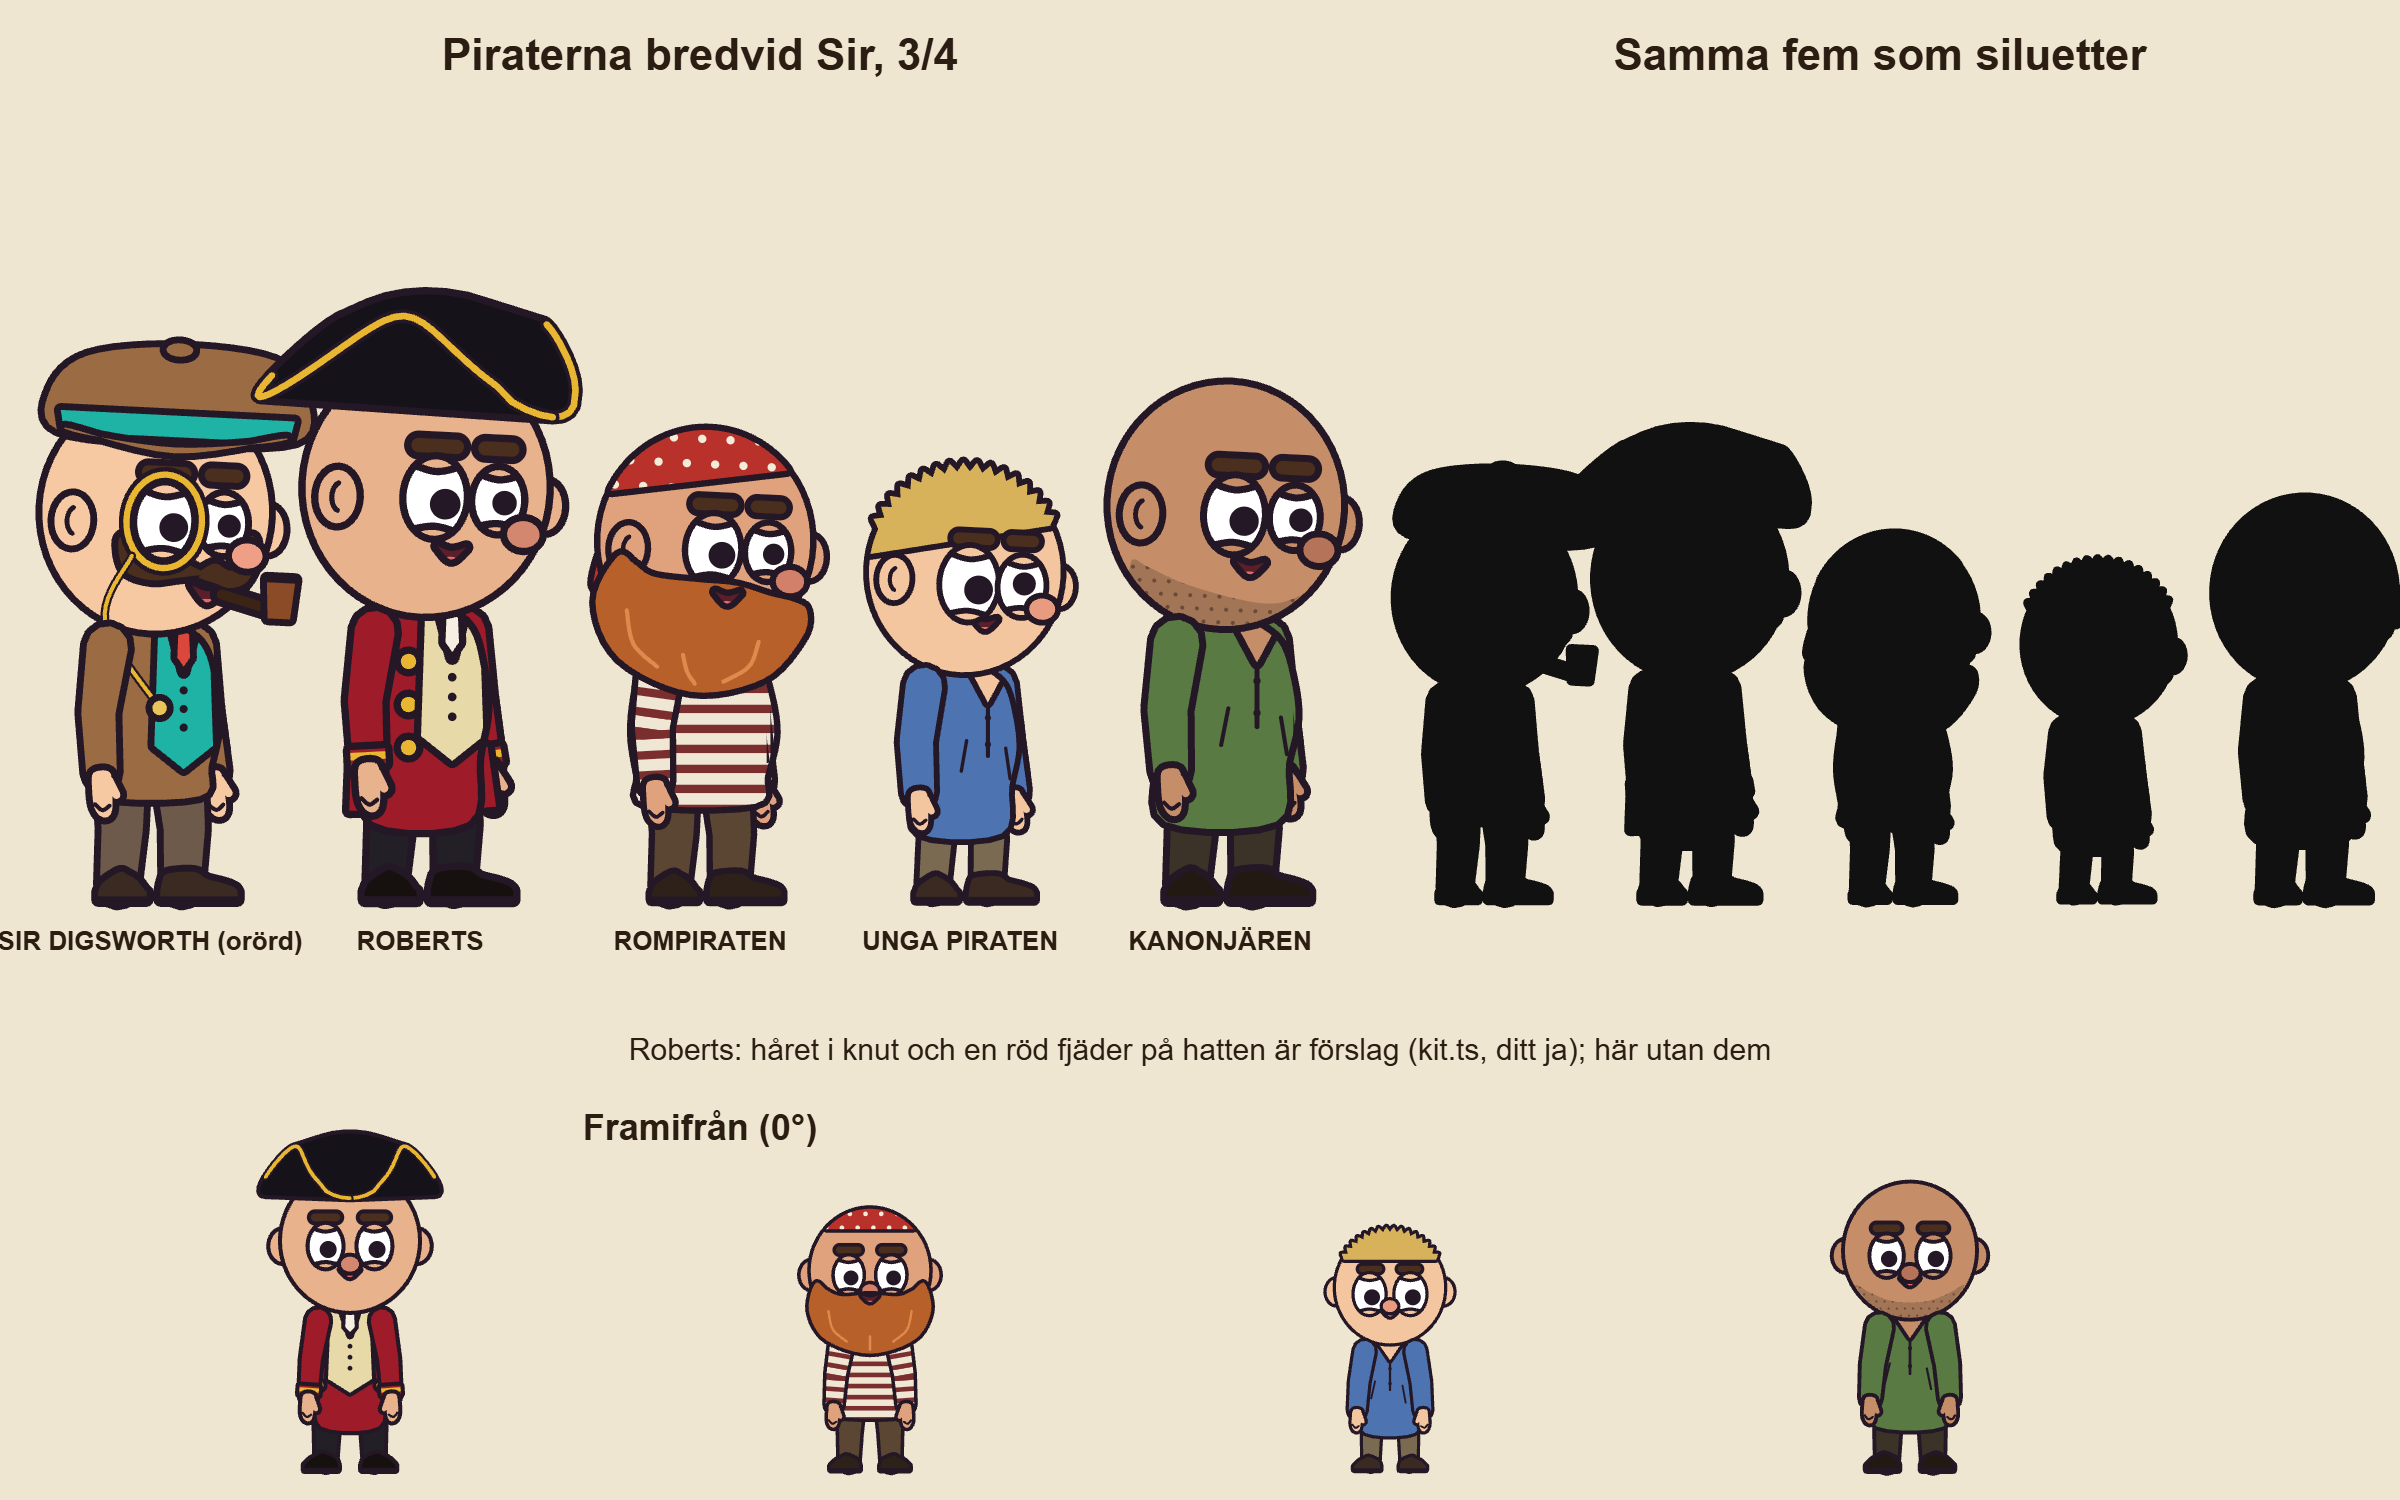
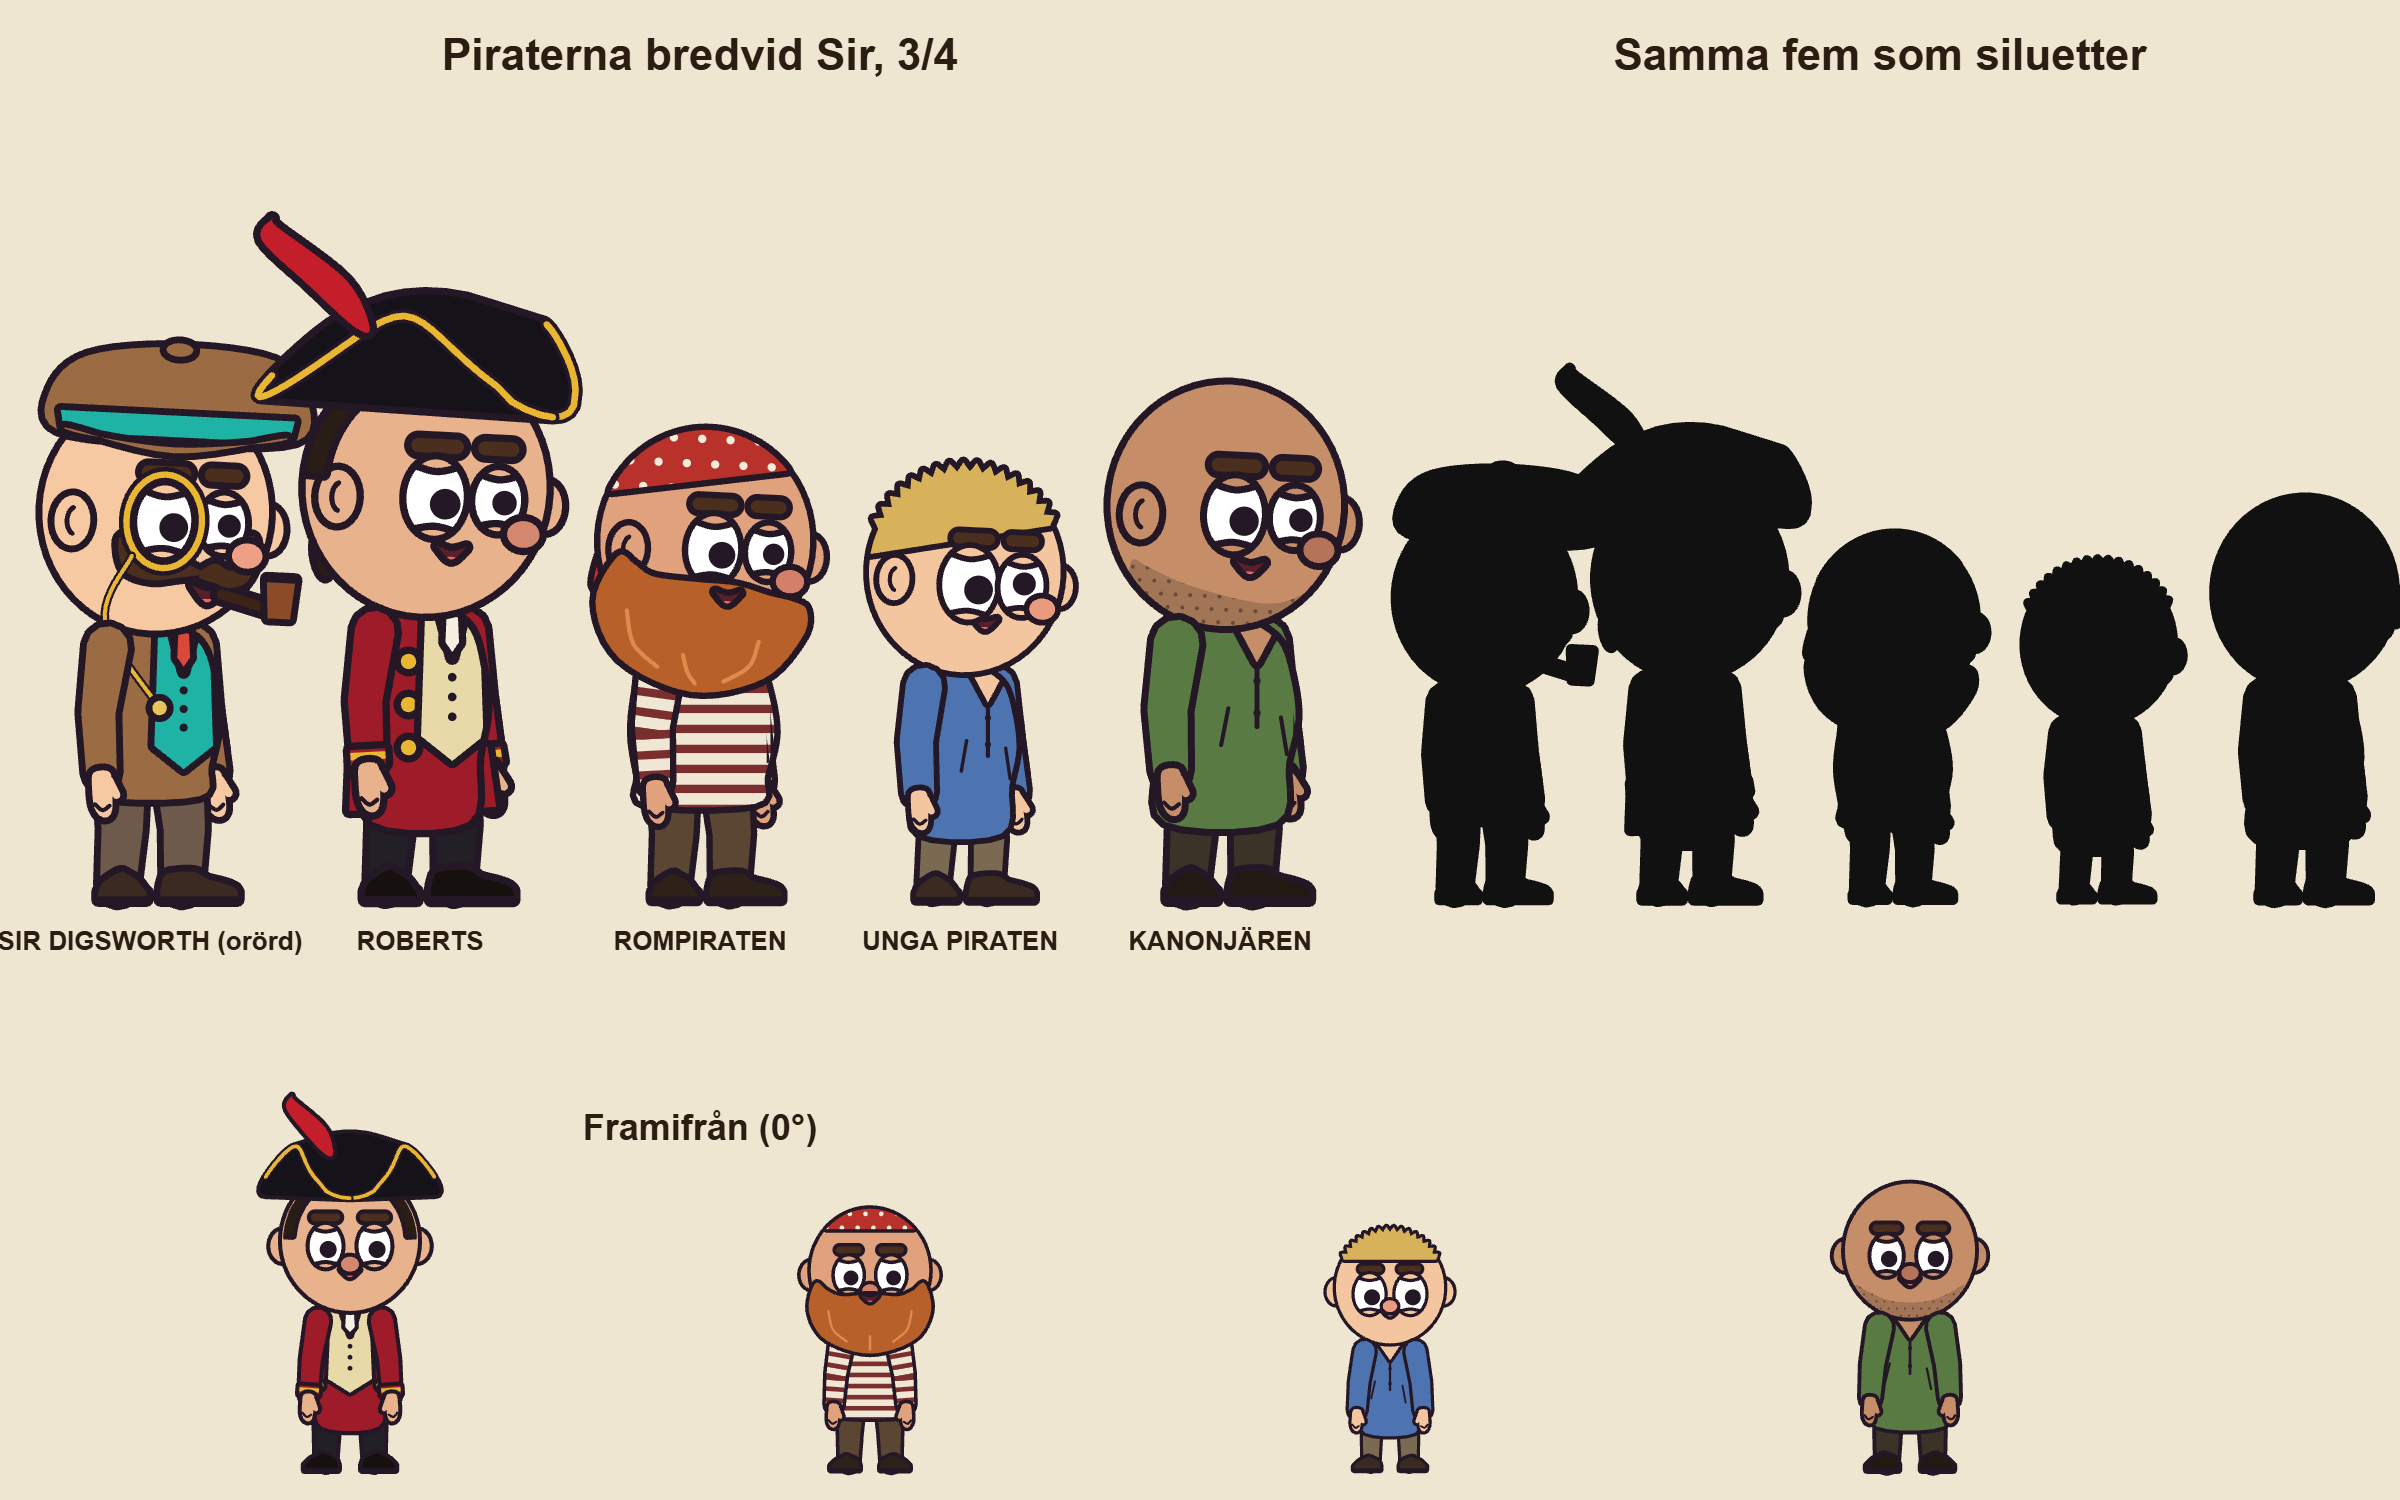
Roberts: hair tied back (kit hair queue) and the red feather in his tricorn (Johnson 1724), added to kit.ts with the reviewer's yes; the turn sheet 0-60 degrees both ways, full size and 360 px; the frozen diff empty

diff --git a/engine/src/craft/wardrobe/kit.ts b/engine/src/craft/wardrobe/kit.ts
@@ -12,7 +12,7 @@ import { Design, FigOpts, Face, Who, frame, torsoPts, J, limb, handAt, shoePts, 
 export type Kit = {
   name: string;
   /** what is on the head */ hat: "tricorn" | "scarf" | "none";
-  /** the hair under or instead of it */ hair: "messy" | "none";
+  /** the hair under or instead of it (queue: long hair tied back at the nape, under a hat; the reviewer's yes for Roberts, 28 Nov) */ hair: "messy" | "none" | "queue";
   /** the beard */ beard: "full" | "stubble" | "none";
   /** a child's face: the eyes this much larger and a little lower */ eyes?: number;
   /** the body: the torso's rows scaled across (w) and in depth (d), the arms' and legs' widths */ body: { w: number; d: number; arm: number[]; leg: number[]; hem?: number };
@@ -274,13 +274,26 @@ const BEARD_STRANDS: Record<string, [P2, P2, P2][]> = { q: [[[-90, -40], [-80, 0
 
 // ---------------- the kit's head parts (in the head's own frame, facing +x; fwd as hatOutline) ----------------
 /** behind the head: the scarf's knot and tails */
-const kitBack = (k: Ink, fwd: number) => { const kit = KIT.k; if (!kit) return; if (kit.hat === "scarf") for (const p of scarfKnot(fwd)) fl(k, p, kit.col.scarf); };
+const kitBack = (k: Ink, fwd: number) => { const kit = KIT.k; if (!kit) return; if (kit.hat === "scarf") for (const p of scarfKnot(fwd)) fl(k, p, kit.col.scarf);
+  if (kit.hair === "queue") for (const p of queueTail(fwd)) fl(k, p, kit.col.hair); };
+/** long hair tied back (Roberts, the reviewer's yes 28 Nov): its tail hangs at the nape behind the head, tied with a dark ribbon; seen from the
+ *  side and three-quarter only (from the front the head hides it) */
+const queueTail = (fwd: number): P2[][] => { if (fwd < 0.3) return []; const bx = -118 * fwd;
+  return [spline([[bx + 6, -150], [bx - 20, -118], [bx - 30, -60], [bx - 18, -30], [bx - 6, -62], [bx + 2, -112]]), ellPts(bx - 6, -140, 14, 12)]; };
+/** the hair seen under the hat's brim at the head's back side and over the ear's top (a crescent on the head's outline, inside it) */
+const queueHair = (fwd: number): P2[] => { const out: P2[] = [];
+  // (from the brim's lowest (-206) down to the ear's top (-150) at the back; from the front a thin band each side)
+  const back = fwd < 0.3 ? null : -1;
+  for (let i = 0; i <= 40; i++) { const a = Math.PI * (0.5 + i / 40), x = 126 * Math.cos(a), y = -128 + 132 * Math.sin(a); if (y >= -214 && y <= -128 && (back === null || x < -40 * fwd)) out.push([x, y]); }
+  for (let i = 40; i >= 0; i--) { const a = Math.PI * (0.5 + i / 40), x = 108 * Math.cos(a), y = -128 + 118 * Math.sin(a); if (y >= -214 && y <= -128 && (back === null || x < -40 * fwd)) out.push([x, y]); }
+  return out; };
 /** on the face, before the brows, the mouth and the eyes (so the mouth is always drawn over a beard): stubble, a beard, the hair */
 const kitFace = (k: Ink, view: "front" | "q" | "side", fwd: number) => { const kit = KIT.k; if (!kit) return;
   const head = ellPts(0, -128, 126, 132, 0, 0, 360, 60);
   if (kit.beard === "stubble") k.clip(head, () => { const st = stubblePts(view); k.shape(st, kit.col.stubble, 0); k.clip(st, () => { for (let x = -130; x < 150; x += 16) for (let y = -70; y < 20; y += 14) k.dot(x + ((y / 14) % 2) * 8, y, 2.2, "rgba(60,40,32,0.55)"); }); });
   // (the full beard is not drawn here: beardOverlay draws it after the arms, so it lies over the arms' upper part, and the mouth over it)
   if (kit.hat === "none" && kit.hair === "messy") fl(k, messyHair(fwd), kit.col.hair);
+  if (kit.hair === "queue") { const q = queueHair(fwd); if (q.length > 2) k.clip(head, () => fl(k, q, kit.col.hair)); if (fwd < 0.3) k.clip(head, () => { const m: P2[] = queueHair(fwd).map(([x, y]) => [-x, y]); if (m.length > 2) fl(k, m, kit.col.hair); }); }
 };
 /** sweat (the captain's rage, the list): two drops at the temple on the head's back side, under the hat's brim, clear of the eyes, the brows and
  *  the beard (the reviewer's rules: never into an eye nor over the beard), inside the head's outline; they grow with `sweat` (0-1) */
@@ -294,8 +307,15 @@ const kitHat = (k: Ink, fwd: number) => { const kit = KIT.k; if (!kit) return; k
     // (the gold trim along the brim's edge on the side toward us)
     const front = t.loop.map(([x, y, z]) => (z > -20 ? [x, y] : null)); let run: P2[] = [];
     const flush = () => { if (run.length > 2) band(k, run, 7, GOLD, k.ol * 0.4); run = []; };
-    for (const q of [...front, ...front.slice(0, 1)]) { if (q) run.push(q as P2); else flush(); } flush(); }
+    for (const q of [...front, ...front.slice(0, 1)]) { if (q) run.push(q as P2); else flush(); } flush();
+    if (kit.col.feather) for (const p of hatFeather(fwd)) fl(k, p, kit.col.feather); }
 };
+/** a red feather in the tricorn (Roberts: Johnson 1724, "a red Feather in his Hat"; the reviewer's yes 28 Nov): from the crown's back half, up and
+ *  back over it, never over the face (all of it above the brim's top, -270, and behind the head's middle as it turns) */
+const hatFeather = (fwd: number): P2[][] => { const bx = -40 - 50 * fwd, lean = -1 - 0.6 * fwd;
+  const tip: P2 = [bx + 70 * lean, -400], base: P2 = [bx, -292];
+  const leaf = spline([[base[0] + 8, base[1]], [base[0] + 24 + 30 * lean, -340], [tip[0] + 6, tip[1] + 8], [tip[0], tip[1]], [tip[0] - 10, tip[1] + 22], [base[0] - 22 + 26 * lean, -334], [base[0] - 8, base[1]]]);
+  return [leaf]; };
 
 // ---------------- the specification of one direction ----------------
 type Body = { rows: number[][]; arm: number[]; leg: number[]; shoeW: number; neck: number };

diff --git a/engine/src/craft/wardrobe/PirateSheet.tsx b/engine/src/craft/wardrobe/PirateSheet.tsx
@@ -11,7 +11,7 @@ import { FLAT } from "../designs/flat";
 import { KIT_DESIGN } from "./kit";
 import { ROBERTS_LOOK, RUM_LOOK, YOUNG_LOOK, GUNNER_LOOK, PIRATE_HEIGHTS } from "./pirates";
 
-export const PSW = 2400, PSH = 1500, PIRATE_FRAMES = 2;
+export const PSW = 2400, PSH = 1500, PIRATE_FRAMES = 3;
 const BG = "#efe6d2", TXT = "#2b1d12";
 type G = CanvasRenderingContext2D;
 type Person = { name: string; D: Design; o: FigOpts; h: number };
@@ -37,7 +37,6 @@ const sheet0 = (g: G) => {
   PEOPLE.forEach((p, i) => { draw(g, p, pose, 38, SMILE, xs[i], base, sc); text(g, p.name, xs[i], base + 50, 26); });
   text(g, "Samma fem som siluetter", 1880, 70, 44);
   PEOPLE.forEach((p, i) => silhouette(g, p, pose, 38, 1480 + i * 205, base, sc * 0.78));
-  text(g, "Roberts: håret i knut och en röd fjäder på hatten är förslag (kit.ts, ditt ja); här utan dem", 1200, 1060, 30, 400);
   text(g, "Framifrån (0°)", 700, 1140, 36);
   PEOPLE.slice(1).forEach((p, i) => draw(g, p, { ...POSES.stand, head: [0, 0, 0] }, 0, SMILE, 350 + i * 520, 1470, 0.5));
 };
@@ -52,5 +51,11 @@ const sheet1 = (g: G) => {
     draw(g, p, { ...POSES.stand, head: [0, 0, 0] }, y, { pupil: 1, mouth: 0.85, smile: 0.1, gaze: [0.2, 0] }, x, bases[r], 0.46); }));
 };
 
+/** Roberts with his hair tied back and the red feather (the reviewer's yes, 28 Nov): 0 to 60 degrees in 5-degree steps, both ways round, standing and speaking */
+const sheet2 = (g: G) => { const R = PEOPLE[1];
+  text(g, "Roberts med knut och röd fjäder: 0-60° i steg om 5°, åt höger (övre raden) och åt vänster (nedre)", 1200, 60, 36);
+  for (let i = 0; i <= 12; i++) { const y = i * 5, x = 110 + i * 182;
+    draw(g, R, { ...POSES.stand, head: [0, 0, 0] }, y, SMILE, x, 700, 0.62); text(g, `${y}°`, x, 740, 26);
+    draw(g, R, { ...POSES.stand, head: [0, 0, 0] }, -y, { pupil: 1, mouth: i % 3 === 0 ? 0.8 : 0, smile: 0.3, gaze: [0.2, 0] }, x, 1400, 0.62); text(g, `-${y}°`, x, 1440, 26); } };
 export const PirateSheet: React.FC = () => { const fr = useCurrentFrame();
-  return <AbsoluteFill style={{ background: BG }}><canvas width={PSW} height={PSH} ref={(cv) => { if (!cv) return; const g = cv.getContext("2d")!; g.setTransform(1, 0, 0, 1, 0, 0); g.clearRect(0, 0, PSW, PSH); (fr === 0 ? sheet0 : sheet1)(g); }} /></AbsoluteFill>; };
+  return <AbsoluteFill style={{ background: BG }}><canvas width={PSW} height={PSH} ref={(cv) => { if (!cv) return; const g = cv.getContext("2d")!; g.setTransform(1, 0, 0, 1, 0, 0); g.clearRect(0, 0, PSW, PSH); (fr === 0 ? sheet0 : fr === 1 ? sheet1 : sheet2)(g); }} /></AbsoluteFill>; };

diff --git a/engine/src/craft/wardrobe/pirates.ts b/engine/src/craft/wardrobe/pirates.ts
@@ -1,12 +1,12 @@
 // The pirates of Roberts' bedtime (pirate week, Short 1, the plan b3ccac2 and the reviewer's yes): four people on the one skeleton, each with
 // his own headwear, hair, face, build and clothes (the wardrobe's rules 9 and 10; the cap, monocle and moustache are Sir's alone). Built from the
-// kit's parts as they are (kit.ts unchanged): Roberts' hair tied back and the feather on his hat are proposals awaiting the reviewer's yes.
+// kit's parts; Roberts' hair tied back (queue) and the red feather in his hat (Johnson 1724) were added to kit.ts with the reviewer's yes, 28 Nov.
 import type { Look } from "../designs/common";
 import type { Kit } from "./kit";
 
 /** Bartholomew Roberts: tall and slim, clean-shaven, a black tricorn, a crimson coat over a light waistcoat */
-export const ROBERTS_KIT: Kit = { name: "roberts", hat: "tricorn", hair: "none", beard: "none", top: "coat",
-  body: { w: 0.92, d: 0.9, arm: [21, 18, 16], leg: [24, 21, 18], hem: -34 }, col: { hat: "#16121a" } };
+export const ROBERTS_KIT: Kit = { name: "roberts", hat: "tricorn", hair: "queue", beard: "none", top: "coat",
+  body: { w: 0.92, d: 0.9, arm: [21, 18, 16], leg: [24, 21, 18], hem: -34 }, col: { hat: "#16121a", hair: "#2a1d16", feather: "#c41e2a" } };
 /** the rum pirate (Daniel's voice): short and wide, a red spotted scarf, a ginger beard, a striped shirt */
 export const RUM_KIT: Kit = { name: "rum", hat: "scarf", hair: "none", beard: "full", top: "stripes",
   body: { w: 1.22, d: 1.15, arm: [25, 21, 18], leg: [27, 23, 20] }, col: { scarf: "#b8322b", beard: "#b8602a", beardHi: "#df8a4c", stripe: "#7a2e2e" } };
